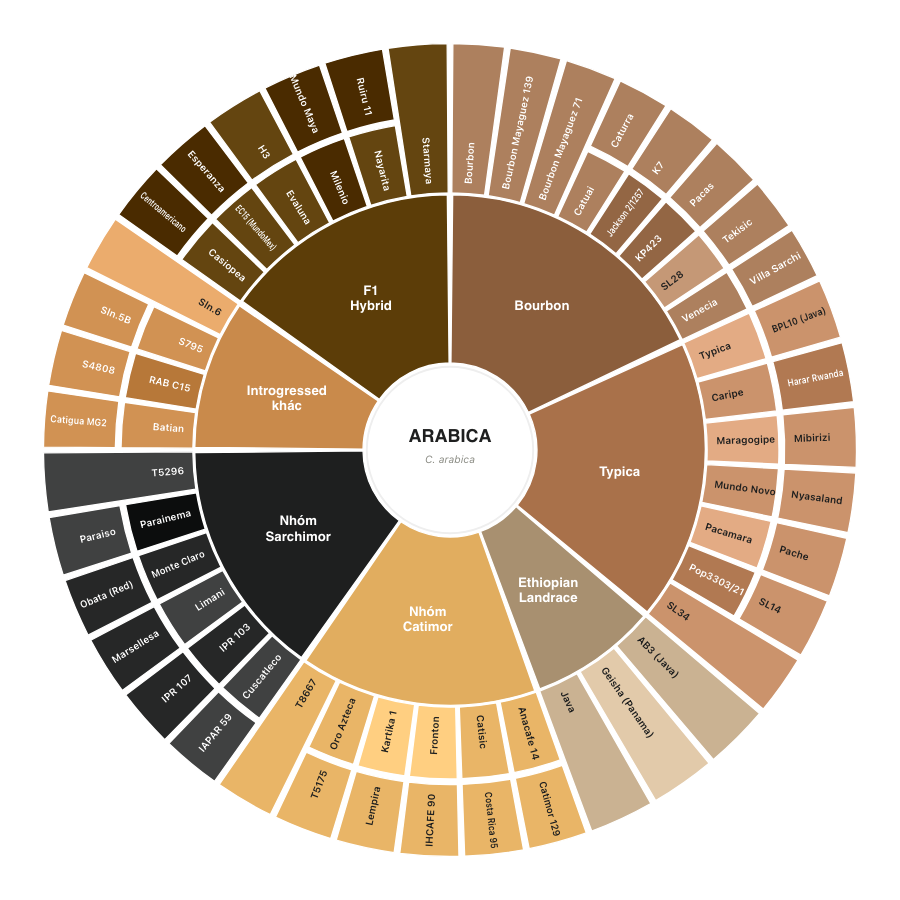
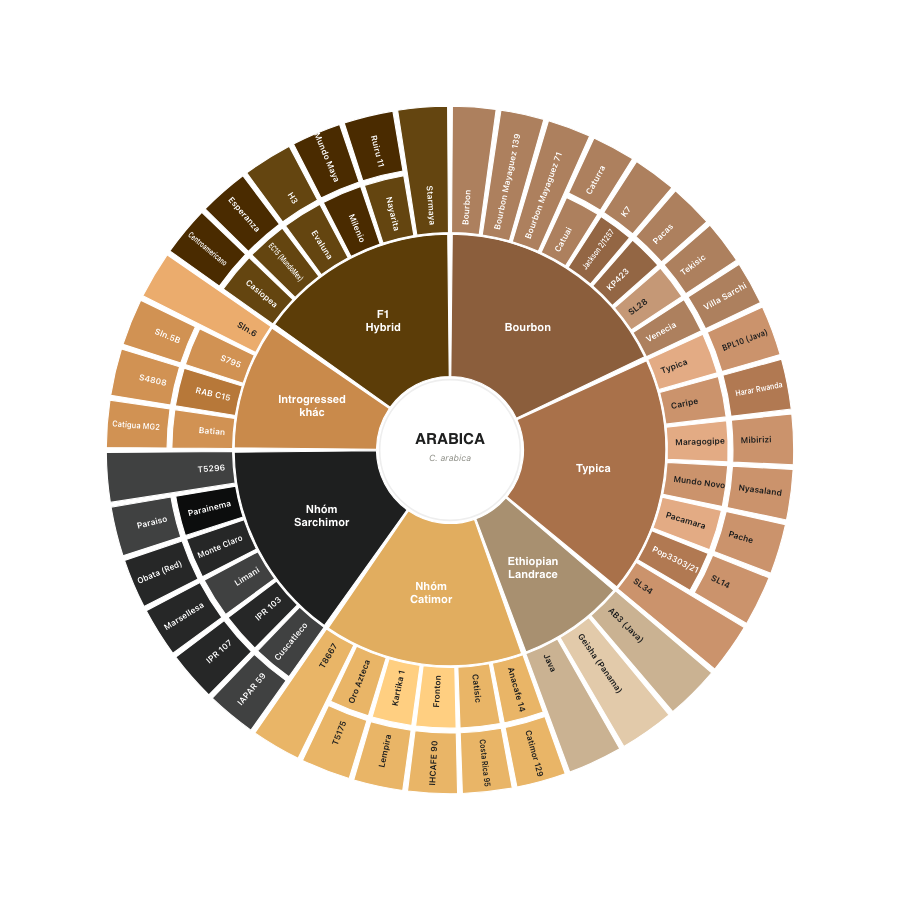
Knowledge cards: lift only the inner frame, and pick cells one by one on the variety wheel
Hovering used to raise the whole card. Now the border, the artwork and the
effect layer move together by the same 6px while the card itself stays put, so
what rises is the square frame inside it. Every keyframe that touches transform
carries that translateY, because animations beat ordinary declarations and the
artwork would otherwise drop back down mid-hover.

Each icon keeps its own effect. The variety wheel gets a new one: the outline
of a cell lights up as if being selected, running from the ARABICA core out
through ring 1, 2 and 3. A PNG has no per-cell geometry, so the 76 arc paths
plus the core circle are lifted straight out of the SVG the tool builds and
stored in varietyWheelCells.ts, already sorted into pick order. Same coordinate
space and same fit rule as the image below, so the outlines land on their cells
at any card width. One keyframe for all 77, phase-shifted by index — the lit
window is 13% of the cycle, which keeps about nine cells lit at once and reads
as a run rather than a flicker.

Nothing animates on its own on touch devices; scrolling past a spinning wheel
was distracting. Artwork is clipped to the inner frame so no effect crosses the
border line.

Thumbnails: the variety wheel was a stale export where a label overflowed its
cell, and its ring nearly touched the frame — re-exported from the current tool
with margin. The two beans were oversized on a phone and had no VS between
them. Both renamed so caches cannot serve the old file.

diff --git a/app/varietyWheelCells.ts b/app/varietyWheelCells.ts
@@ -1,0 +1,89 @@
+/* Hình học từng ô của Coffee Variety Wheel, trích thẳng từ SVG mà
+   public/tools/coffee-variety-wheel.html dựng ra, nên khớp tuyệt đối với ảnh
+   coffee-variety-wheel-atlas.png (cùng hệ toạ độ 900x900, cùng viewBox mở rộng).
+   Thứ tự mảng chính là thứ tự "chọn": lõi ARABICA trước, rồi vòng 1 (nhóm di
+   truyền), vòng 2 và vòng 3 (các giống) — mỗi vòng chạy hết một lượt theo chiều
+   kim đồng hồ. Chỉ dùng để vẽ viền sáng, không vẽ nền.
+
+   Sinh lại khi bánh xe đổi dữ liệu: xem ghi chú trong CLAUDE.md. */
+export const VARIETY_WHEEL_VIEWBOX = "-113 -113 1126 1126";
+
+export const VARIETY_WHEEL_CELLS: string[] = [
+  "M 450 450 m -88 0 a 88 88 0 1 0 176 0 a 88 88 0 1 0 -176 0",
+  "M 452.82738171138635 180.01480427131173 A 270 270 0 0 1 693.4947821293807 333.33684782346484 L 532.9685924292705 410.2481111102176 A 92 92 0 0 0 450.9634041386946 358.0050444183729 Z",
+  "M 695.8845884176678 338.4618039473737 A 270 270 0 0 1 658.6380648442847 621.3772385646123 L 521.0914887617563 508.3952072146086 A 92 92 0 0 0 533.7828967941683 411.9943924561421 Z",
+  "M 655.0032529804179 625.7090386617797 A 270 270 0 0 1 544.9972450692694 702.7360746495228 L 482.36943165323254 536.1174772879856 A 92 92 0 0 0 519.852960274809 509.87122798845826 Z",
+  "M 539.6835056086 704.6701176458523 A 270 270 0 0 1 297.4589090752668 672.7806445351397 L 398.0230356849057 525.9104418416032 A 92 92 0 0 0 480.55882413330073 536.7764845311793 Z",
+  "M 292.82679805753196 669.5372054826976 A 270 270 0 0 1 180.01480427131173 452.82738171138647 L 358.0050444183729 450.96340413869467 A 92 92 0 0 0 396.4446867455294 524.8052700163266 Z",
+  "M 180.01480427131173 447.1726182886136 A 270 270 0 0 1 227.21935546486023 297.4589090752669 L 374.0895581583968 398.0230356849058 A 92 92 0 0 0 358.0050444183729 449.0365958613054 Z",
+  "M 230.4627945173025 292.82679805753185 A 270 270 0 0 1 447.17261828861353 180.01480427131173 L 449.03659586130533 358.0050444183729 A 92 92 0 0 0 375.1947299836734 396.4446867455294 Z",
+  "M 453.0019419281235 20.010478796680275 A 430 430 0 0 1 507.79998537593394 23.90240356164668 L 486.5618512145443 180.4684971366695 A 272 272 0 0 0 451.89890280104555 178.00662844813263 Z",
+  "M 513.7436027486459 24.750951666411368 A 430 430 0 0 1 567.4415298510133 36.34859233135262 L 524.2885956266875 188.34143514913467 A 272 272 0 0 0 490.3215347619341 181.0052531471253 Z",
+  "M 573.2055576729533 38.02865323120278 A 430 430 0 0 1 624.7253378359941 57.099177503917986 L 560.5239346311405 201.4673867001528 A 272 272 0 0 0 527.9346783419612 189.4041713462492 Z",
+  "M 595.8314705592741 134.02977641157452 A 348 348 0 0 1 634.9267056722929 155.20157135901627 L 594.5404136289185 219.5828373840587 A 272 272 0 0 0 563.9832183681682 203.0347677699663 Z",
+  "M 639.0247085828335 157.81228714202422 A 348 348 0 0 1 674.735231515051 184.29701598236346 L 625.6551234830283 242.32410444598523 A 272 272 0 0 0 597.7434503865825 221.62339684663962 Z",
+  "M 678.4231182052181 187.4607094749341 A 348 348 0 0 1 710.0320104772466 218.72666922630017 L 653.2434104879628 269.23463801595875 A 272 272 0 0 0 628.5376096316647 244.79687637121287 Z",
+  "M 713.2357435513097 222.37982664757266 A 348 348 0 0 1 740.1084303341604 257.7993271368448 L 676.7514168129069 299.7741867276488 A 272 272 0 0 0 655.7474777182651 272.08997944867747 Z",
+  "M 742.7636921833248 261.8686083100764 A 348 348 0 0 1 764.3606819164286 300.7305735757052 L 695.7071996588178 333.3296437143443 A 272 272 0 0 0 678.8267938904148 302.95477431132406 Z",
+  "M 766.4141659483798 305.13428429338046 A 348 348 0 0 1 784.327073272748 353.4111389606513 L 711.313114741918 374.5052580382102 A 272 272 0 0 0 697.3122216608026 336.7716245051709 Z",
+  "M 785.6430755066483 358.088488944864 A 348 348 0 0 1 795.531406555194 408.623109300127 L 720.0705246638298 417.6594417518234 A 272 272 0 0 0 712.3417141891044 378.1611177959857 Z",
+  "M 796.0754371488482 413.451514364702 A 348 348 0 0 1 797.6800381233078 464.9194869407512 L 721.7499148549991 461.66120818357564 A 272 272 0 0 0 720.4957439784101 421.43336754942226 Z",
+  "M 797.4378390999123 469.7724040415796 A 348 348 0 0 1 790.716656550094 520.8248540367385 L 716.3072717862804 505.3573571781405 A 272 272 0 0 0 721.5606098711958 465.45429281410816 Z",
+  "M 789.6945754718956 525.5750977172285 A 348 348 0 0 1 774.8237584342808 574.8740403631916 L 703.8852364773688 547.6026982149084 A 272 272 0 0 0 715.5084038171137 509.07019131921305 Z",
+  "M 773.0485820453972 579.3971160360936 A 348 348 0 0 1 750.4178655217434 625.6505225593131 L 684.8093661549258 587.290063609578 A 272 272 0 0 0 702.4977422883564 551.137975752349 Z",
+  "M 818.1394558034984 672.2011275414777 A 430 430 0 0 1 781.3206943935894 724.0923155919365 L 659.5796020350147 623.3793252116436 A 272 272 0 0 0 682.8696092524456 590.5551318401906 Z",
+  "M 777.4614722407968 728.6915574571462 A 430 430 0 0 1 728.6915574571462 777.4614722407968 L 626.2886130891716 657.1384196499923 A 272 272 0 0 0 657.1384196499923 626.2886130891716 Z",
+  "M 724.0923155919365 781.3206943935894 A 430 430 0 0 1 667.5945185721005 820.8808777591207 L 587.6411838409566 684.603718024374 A 272 272 0 0 0 623.3793252116436 659.5796020350147 Z",
+  "M 662.3950026312193 823.8828196872441 A 430 430 0 0 1 599.8859803483806 853.0312554815133 L 544.8115968715338 704.9407011417945 A 272 272 0 0 0 584.3521877109108 686.5026208254196 Z",
+  "M 566.7371462730887 777.8359935699793 A 348 348 0 0 1 517.7921451827547 791.3330119568284 L 502.98696405088873 716.7890208398198 A 272 272 0 0 0 541.2428269720693 706.2396271581447 Z",
+  "M 513.0197840075967 792.2462663399498 A 348 348 0 0 1 462.54968626219875 797.7736410004651 L 459.80895018194843 721.8230757245015 A 272 272 0 0 0 499.25684267260436 717.502828863409 Z",
+  "M 457.69278467624747 797.9149624030632 A 348 348 0 0 1 406.9866860943086 795.3315143841501 L 416.38039832658603 719.914287104853 A 272 272 0 0 0 456.0127512412049 721.9335338322793 Z",
+  "M 402.169297979073 794.6972932069315 A 348 348 0 0 1 352.52232225909154 784.0690083534232 L 373.81055073124395 711.111408827963 A 272 272 0 0 0 412.6150834778962 719.41857400082 Z",
+  "M 347.8674922519501 782.6754437302136 A 348 348 0 0 1 300.5477112158949 764.2737872893513 L 333.1867168124236 695.6392820192631 A 272 272 0 0 0 370.17229279462765 710.0221859040751 Z",
+  "M 259.9280538237829 835.7105848648507 A 430 430 0 0 1 205.82718962716672 803.9486384698102 L 295.54650134555663 673.8930922413683 A 272 272 0 0 0 329.76844334899755 693.9843699610219 Z",
+  "M 248.41015202474773 733.6644729135369 A 348 348 0 0 1 209.28034251876244 701.3126469203563 L 261.85130219857297 646.4282757538417 A 272 272 0 0 0 292.43552112279133 671.7147604381668 Z",
+  "M 205.7949344080454 697.927178702193 A 348 348 0 0 1 172.3187153482387 659.7548668187403 L 232.96175452506014 613.946332685912 A 272 272 0 0 0 259.1270751695067 643.7821626637831 Z",
+  "M 169.41714732902108 655.8573845821804 A 348 348 0 0 1 142.44956072913476 612.8395753626796 L 209.61574861587545 577.2769094788761 A 272 272 0 0 0 230.6938622801544 610.9000247308996 Z",
+  "M 140.20594399532797 608.5296277172633 A 348 348 0 0 1 120.43578985129108 561.7650723126758 L 192.40958287227346 537.3566082443903 A 272 272 0 0 0 207.8621171457736 573.9082147675163 Z",
+  "M 118.90743035392597 557.1527429661024 A 348 348 0 0 1 106.83967347018967 507.8358910708042 L 181.78273328704478 495.2050642852263 A 272 272 0 0 0 191.2150030352525 533.7515692148847 Z",
+  "M 25.02359636599249 515.5366794574237 A 430 430 0 0 1 20.010478796680275 453.00194192812336 L 178.00662844813263 451.89890280104544 A 272 272 0 0 0 181.1777167710464 491.45576002888197 Z",
+  "M 102.0084805145226 447.5705214163094 A 348 348 0 0 1 105.68899566253549 399.46355481312014 L 180.88335293163692 410.5002497389905 A 272 272 0 0 0 178.00662844813263 448.1010971989545 Z",
+  "M 106.42815668018926 394.66114856786953 A 348 348 0 0 1 117.38403085018109 347.67396681915824 L 190.02429997485422 370.0210315368133 A 272 272 0 0 0 181.46108797991803 406.74664485764515 Z",
+  "M 118.84514744995545 343.0398970056673 A 348 348 0 0 1 136.82136098823838 298.2662197572977 L 205.21669594483 331.40348210915215 A 272 272 0 0 0 191.16632214479273 366.3989999584526 Z",
+  "M 65.68184425155368 257.1281379720905 A 430 430 0 0 1 96.05136153019004 205.82718962716643 L 226.10690775863182 295.5465013455564 A 272 272 0 0 0 206.89642241028514 327.99733378699676 Z",
+  "M 166.33552708646306 248.41015202474787 A 348 348 0 0 1 198.687353079644 209.2803425187621 L 253.5717242461585 261.8513021985727 A 272 272 0 0 0 228.2852395618332 292.43552112279144 Z",
+  "M 202.07282129780697 205.7949344080454 A 348 348 0 0 1 240.2451331812601 172.31871534823836 L 286.05366731408833 232.96175452505986 A 272 272 0 0 0 256.2178373362169 259.1270751695067 Z",
+  "M 244.14261541781946 169.41714732902113 A 348 348 0 0 1 287.16042463732043 142.4495607291347 L 322.72309052112405 209.61574861587542 A 272 272 0 0 0 289.09997526910024 230.69386228015446 Z",
+  "M 291.4703722827363 140.20594399532814 A 348 348 0 0 1 338.23492768732484 120.4357898512909 L 362.6433917556102 192.40958287227335 A 272 272 0 0 0 326.0917852324835 207.8621171457737 Z",
+  "M 342.8472570338974 118.90743035392603 A 348 348 0 0 1 392.16410892919606 106.83967347018955 L 404.79493571477394 181.78273328704472 A 272 272 0 0 0 366.2484307851152 191.2150030352525 Z",
+  "M 384.4633205425763 25.02359636599249 A 430 430 0 0 1 446.99805807187664 20.010478796680275 L 448.1010971989545 178.00662844813263 A 272 272 0 0 0 408.54423997111803 181.1777167710464 Z",
+  "M 630.1940584496776 59.57702257752027 A 430 430 0 0 1 678.5013891927756 85.737573805681 L 638.1150971494013 150.11883983072346 A 354 354 0 0 0 598.3458062585719 128.58201393591202 Z",
+  "M 683.5650134787884 88.96345825020234 A 430 430 0 0 1 727.6900849180229 121.68884158740309 L 678.6099768860001 179.71593005102488 A 354 354 0 0 0 642.2837552825374 152.7745679548177 Z",
+  "M 732.2469564029993 125.5980030868439 A 430 430 0 0 1 771.303920992 164.23122921640538 L 714.5153210027163 214.739198006064 A 354 354 0 0 0 682.361447829446 182.93416998312262 Z",
+  "M 775.2625566869632 168.74518809901218 A 430 430 0 0 1 808.4673133439337 212.51066284150357 L 745.1102998226804 254.4855224323076 A 354 354 0 0 0 717.7742908539185 218.455340900117 Z",
+  "M 811.7482403414645 217.5387976245197 A 430 430 0 0 1 838.4341759312193 265.55789263664724 L 769.7806936736085 298.15696277528633 A 354 354 0 0 0 747.8113420485545 258.62496362576735 Z",
+  "M 840.9715268902395 270.99925932802756 A 430 430 0 0 1 863.1052916875908 330.6516946927587 L 790.0913331567608 351.7458137703177 A 354 354 0 0 0 771.8695826026624 302.636599539818 Z",
+  "M 864.731386401893 336.4311788686539 A 430 430 0 0 1 876.9497264906133 398.8733821811914 L 801.4888445992491 407.9097146328878 A 354 354 0 0 0 791.4300250843492 356.5038077197755 Z",
+  "M 877.621948201163 404.8395148759249 A 430 430 0 0 1 879.6046448075356 468.434998231388 L 803.6745215392269 465.17671947421246 A 354 354 0 0 0 802.0422550307248 412.82136806064517 Z",
+  "M 879.3053758993169 474.43141878700925 A 430 430 0 0 1 871.0004664268403 537.5134690683839 L 796.5910816630267 522.0459722097858 A 354 354 0 0 0 803.4281466706004 470.1133075595379 Z",
+  "M 869.7375501520548 543.383023041403 A 430 430 0 0 1 851.3626900193699 604.298383207392 L 780.424168062458 577.0270410591088 A 354 354 0 0 0 795.5513784972732 526.8781166433876 Z",
+  "M 849.1692249411517 609.8872410790812 A 430 430 0 0 1 821.2059832596253 667.0394387945536 L 755.5974838928078 628.6789798448185 A 354 354 0 0 0 778.6183851841109 581.6281007953365 Z",
+  "M 594.2441749926096 855.0847046985376 A 430 430 0 0 1 533.7661564039785 871.762055004127 L 518.9609752721126 797.2180638871184 A 354 354 0 0 0 568.7498556915903 783.4883382867031 Z",
+  "M 527.8692733427201 872.890501512007 A 430 430 0 0 1 465.5067962435214 879.7203035350574 L 462.7660601632711 803.7697382590939 A 354 354 0 0 0 514.1063320077277 798.1470640354662 Z",
+  "M 459.50545232984604 879.8949248083827 A 430 430 0 0 1 396.85136500158825 876.7027332907602 L 406.2450772338657 801.285506011463 A 354 354 0 0 0 457.8254188948035 803.9134962375988 Z",
+  "M 390.898845204027 875.9190691924728 A 430 430 0 0 1 329.55344417071655 862.7864183677357 L 350.84167264286896 789.8288188422754 A 354 354 0 0 0 401.34463070285017 800.6403499863613 Z",
+  "M 323.80178640327165 861.0644850689421 A 430 430 0 0 1 265.33194201964017 838.3268061333938 L 297.9709476161689 769.6923008633056 A 354 354 0 0 0 346.10658694594923 788.4112272428035 Z",
+  "M 200.90909589264805 800.5049521632783 A 430 430 0 0 1 152.55904391686164 760.5299947579115 L 205.13000359667214 705.6456235913969 A 354 354 0 0 0 244.93446499069165 738.5552396879082 Z",
+  "M 148.25236148120553 756.3468012699511 A 430 430 0 0 1 106.88806781535243 709.1798641725815 L 167.53110699217387 663.3713300397532 A 354 354 0 0 0 201.5845022426669 702.2017852315412 Z",
+  "M 103.30279698700883 704.364009684878 A 430 430 0 0 1 69.98077906186188 651.2098201320467 L 137.1469669486026 615.6471542482432 A 354 354 0 0 0 164.57951193814216 659.4066498335974 Z",
+  "M 67.20849401721563 645.8843101104117 A 430 430 0 0 1 42.77985527602061 588.1005203863522 L 114.753648297003 563.6920563180666 A 354 354 0 0 0 134.8646671676612 611.2628971606645 Z",
+  "M 40.89136509249471 582.4013778029428 A 430 430 0 0 1 25.98005629937228 521.4638883920857 L 100.92311611622739 508.8330616065077 A 354 354 0 0 0 113.19893777382123 559.000204051725 Z",
+  "M 20.010478796680275 446.9980580718766 A 430 430 0 0 1 24.558241766926074 387.55554186678637 L 99.7525990360275 398.5922367926567 A 354 354 0 0 0 96.00862673029025 447.5286338545217 Z",
+  "M 25.471572909429256 381.62153414995373 A 430 430 0 0 1 39.009003636718035 323.5626601501093 L 111.64927276139116 345.90972486776445 A 354 354 0 0 0 100.50450420915803 393.70703043972935 Z",
+  "M 40.8144063318415 317.83665434608315 A 430 430 0 0 1 63.026394324547425 262.5128577460862 L 131.42172928113905 295.6501200979407 A 354 354 0 0 0 113.13558102667884 341.19575729886844 Z",
+  "M 99.4950478367216 200.90909589264825 A 430 430 0 0 1 139.47000524208886 152.55904391686124 L 194.35437640860337 205.1300035966718 A 354 354 0 0 0 161.44476031209172 244.93446499069182 Z",
+  "M 143.65319873004887 148.25236148120553 A 430 430 0 0 1 190.8201358274191 106.88806781535197 L 236.62866996024735 167.53110699217348 A 354 354 0 0 0 197.79821476845882 201.5845022426669 Z",
+  "M 195.63599031512175 103.30279698700889 A 430 430 0 0 1 248.7901798679534 69.98077906186188 L 284.352845751757 137.14696694860254 A 354 354 0 0 0 240.59335016640256 164.57951193814222 Z",
+  "M 254.11568988958797 67.2084940172158 A 430 430 0 0 1 311.8994796136485 42.77985527602033 L 336.3079436819339 114.75364829700277 A 354 354 0 0 0 288.7371028393352 134.86466716766137 Z",
+  "M 317.5986221970571 40.891365092494766 A 430 430 0 0 1 378.5361116079147 25.980056299372166 L 391.1669383934925 100.92311611622733 A 354 354 0 0 0 340.99979594827494 113.19893777382129 Z",
+];

diff --git a/app/public-site.css b/app/public-site.css
@@ -112,11 +112,56 @@
 .tool-nav-dot{width:6px;height:6px;padding:0;border:0;border-radius:50%!important;background:var(--line);cursor:pointer;transition:background-color .3s var(--ease)}
 .tool-nav-dot:hover{background:var(--quiet)}
 .tool-nav-dot.is-active{background:var(--copper)}
-.tool-card{flex:0 0 calc((100% - 36px)/3);scroll-snap-align:start;min-height:540px;display:grid;grid-template-rows:300px 1fr;background:var(--paper-2);border:1px solid rgba(30,31,31,.08);border-radius:var(--radius-lg);overflow:hidden;box-shadow:0 1px 0 rgba(30,31,31,.04);transition:background .3s var(--ease),transform .35s var(--ease),box-shadow .35s var(--ease)}.tool-card:hover{background:#ece9e1;transform:translateY(-6px);box-shadow:0 24px 44px rgba(21,20,15,.16)}.tool-visual{position:relative;isolation:isolate;overflow:hidden;background:#f7f5ef}.tool-visual:after{content:"";position:absolute;z-index:3;inset:16px;border:1px solid rgba(30,31,31,.1);pointer-events:none}.tool-thumbnail{z-index:1;object-fit:contain;object-position:center;transition:transform .6s var(--ease),filter .6s var(--ease);will-change:transform}.tool-card:hover .tool-thumbnail{transform:scale(1.025)}
-.tool-card-bean:hover .tool-thumbnail,.tool-card-bean:focus-visible .tool-thumbnail{animation:toolBeanTilt 3.6s ease-in-out infinite}
-@keyframes toolBeanTilt{0%,100%{transform:scale(1.025) rotate(0deg)}35%{transform:scale(1.045) rotate(-1.6deg)}70%{transform:scale(1.045) rotate(1.6deg)}}
-.tool-card-wheel:hover .tool-thumbnail,.tool-card-wheel:focus-visible .tool-thumbnail{animation:toolWheelSpin 8s linear infinite}.tool-card-wheel:active .tool-thumbnail{animation:toolWheelSpin 1.1s linear infinite}.tool-card-map .tool-visual:before{content:"";position:absolute;z-index:2;inset:0;background:url("/images/tools/vietnam-coffee-map-centered.png") center/contain no-repeat;opacity:0;clip-path:inset(0 0 88% 0);filter:brightness(1.18) saturate(1.4) drop-shadow(0 0 4px rgba(255,194,102,.95)) drop-shadow(0 0 12px rgba(191,129,60,.68));pointer-events:none;will-change:clip-path,opacity}.tool-card-map:hover .tool-thumbnail,.tool-card-map:focus-visible .tool-thumbnail{transform:scale(1.018)}.tool-card-map:hover .tool-visual:before,.tool-card-map:focus-visible .tool-visual:before{animation:toolMapSweep 3.4s ease-in-out infinite}.tool-card-map:active .tool-visual:before{animation-duration:1.7s}
-@keyframes toolWheelSpin{from{transform:rotate(0deg) scale(1.02)}to{transform:rotate(360deg) scale(1.02)}}@keyframes toolMapSweep{0%{opacity:0;clip-path:inset(0 0 88% 0)}8%{opacity:1}50%{opacity:1;clip-path:inset(44% 0 44% 0)}92%{opacity:1}100%{opacity:0;clip-path:inset(88% 0 0 0)}}
+.tool-card{--tool-frame:16px;flex:0 0 calc((100% - 36px)/3);scroll-snap-align:start;min-height:540px;display:grid;grid-template-rows:300px 1fr;background:var(--paper-2);border:1px solid rgba(30,31,31,.08);border-radius:var(--radius-lg);overflow:hidden;box-shadow:0 1px 0 rgba(30,31,31,.04);transition:background .3s var(--ease),box-shadow .35s var(--ease)}.tool-card:hover{background:#ece9e1;box-shadow:0 24px 44px rgba(21,20,15,.16)}.tool-visual{position:relative;isolation:isolate;overflow:hidden;background:#f7f5ef}.tool-visual:after{content:"";position:absolute;z-index:3;inset:var(--tool-frame);border:1px solid rgba(30,31,31,.1);pointer-events:none}
+/* Artwork luôn bị cắt đúng bằng khung trong, nên dù hiệu ứng riêng của icon có
+   xoay hay nghiêng thì cũng không có gì tràn qua đường viền. */
+.tool-thumbnail{z-index:1;object-fit:contain;object-position:center;clip-path:inset(var(--tool-frame))}
+/* Rê chuột: chỉ riêng khung vuông bên trong nhấc lên — viền, artwork và lớp
+   hiệu ứng dịch cùng một lượng nên chúng đi lên như một khối. Cả thẻ đứng yên.
+   Nhấc 6px trong khi khung cách mép 16px nên không có gì bị cắt ở trên. */
+.tool-visual:after,.tool-thumbnail,.tool-visual:before,.tool-cells{transition:transform .35s var(--ease),box-shadow .35s var(--ease)}
+.tool-card:hover .tool-visual:after,.tool-card:focus-visible .tool-visual:after,
+.tool-card:hover .tool-thumbnail,.tool-card:focus-visible .tool-thumbnail,
+.tool-card:hover .tool-visual:before,.tool-card:focus-visible .tool-visual:before,
+.tool-card:hover .tool-cells,.tool-card:focus-visible .tool-cells{transform:translateY(-6px)}
+.tool-card:hover .tool-visual:after,.tool-card:focus-visible .tool-visual:after{box-shadow:0 14px 26px -16px rgba(21,20,15,.55)}
+
+/* ---- Hiệu ứng riêng của từng icon ----
+   Mọi keyframe chạm tới transform đều phải mang sẵn translateY(-6px): animation
+   thắng khai báo thường, nếu bỏ ra thì artwork sẽ tụt xuống trong khi viền vẫn
+   đang nhấc. Delay .35s để hiệu ứng chỉ bắt đầu sau khi khung nhấc xong. */
+
+/* 01 · Flavor wheel — bánh xe quay */
+.tool-card-wheel:hover .tool-thumbnail,.tool-card-wheel:focus-visible .tool-thumbnail{animation:toolWheelSpin 8s linear .35s infinite}
+.tool-card-wheel:active .tool-thumbnail{animation-duration:1.1s}
+@keyframes toolWheelSpin{from{transform:translateY(-6px) rotate(0deg)}to{transform:translateY(-6px) rotate(360deg)}}
+
+/* 04 · Hai hạt — nghiêng qua lại */
+.tool-card-bean:hover .tool-thumbnail,.tool-card-bean:focus-visible .tool-thumbnail{animation:toolBeanTilt 3.6s ease-in-out .35s infinite}
+@keyframes toolBeanTilt{0%,100%{transform:translateY(-6px) rotate(0deg)}35%{transform:translateY(-6px) rotate(-1.7deg)}70%{transform:translateY(-6px) rotate(1.7deg)}}
+
+/* 02 và 03 dùng chung một cơ chế: lớp before là bản sao artwork đã tăng sáng,
+   bị mask che gần hết, chỉ hiện đúng dải mà mask đang quét qua. Đặt inset:0 để
+   bản sao trùng khít ảnh gốc (cả hai cùng contain trên toàn ô visual), rồi clip
+   lại bằng khung trong — clip-path lo phần khung nên mask rảnh để làm hiệu ứng. */
+.tool-card-map .tool-visual:before{content:"";position:absolute;z-index:2;inset:0;clip-path:inset(var(--tool-frame));pointer-events:none;background-repeat:no-repeat;background-position:center;background-size:contain;-webkit-mask-repeat:no-repeat;mask-repeat:no-repeat}
+
+/* 02 · Vietnam map — dải sáng quét dọc từ Bắc xuống Nam. Mask cao gấp đôi ô,
+   kéo mask-position từ 100% (dải ở mép trên) về 0% (dải ở mép dưới). */
+.tool-card-map .tool-visual:before{opacity:0;background-image:url("/images/tools/vietnam-coffee-map-centered.png");filter:brightness(1.18) saturate(1.4) drop-shadow(0 0 4px rgba(255,194,102,.95)) drop-shadow(0 0 12px rgba(191,129,60,.68));-webkit-mask-image:linear-gradient(to bottom,transparent 44%,#000 47.5%,#000 52.5%,transparent 56%);mask-image:linear-gradient(to bottom,transparent 44%,#000 47.5%,#000 52.5%,transparent 56%);-webkit-mask-size:100% 200%;mask-size:100% 200%;-webkit-mask-position:0 100%;mask-position:0 100%}
+.tool-card-map:hover .tool-visual:before,.tool-card-map:focus-visible .tool-visual:before{animation:toolMapSweep 3.4s ease-in-out infinite}
+.tool-card-map:active .tool-visual:before{animation-duration:1.7s}
+@keyframes toolMapSweep{0%{opacity:0;-webkit-mask-position:0 100%;mask-position:0 100%}8%{opacity:1}92%{opacity:1}100%{opacity:0;-webkit-mask-position:0 0;mask-position:0 0}}
+
+/* 03 · Variety wheel — sáng viền từng ô như đang chọn: lõi ARABICA trước, rồi
+   chạy hết vòng 1, vòng 2, vòng 3. Hình học lấy từ app/varietyWheelCells.ts nên
+   viền trùng khít với ảnh bên dưới. Mỗi ô lệch pha theo chỉ số --i, cả 77 ô dùng
+   chung một keyframe: cửa sổ sáng chỉ chiếm ~13% chu kỳ nên tại một thời điểm
+   chỉ chừng mười ô đang sáng, đọc ra thành một vệt chạy vòng. */
+.tool-cells{position:absolute;z-index:2;inset:0;width:100%;height:100%;clip-path:inset(var(--tool-frame));pointer-events:none;fill:none;stroke:#e8b877;stroke-width:5;stroke-linejoin:round}
+.tool-cells path{opacity:0}
+.tool-card-cells:hover .tool-cells path,.tool-card-cells:focus-visible .tool-cells path{animation:toolCellPick 6.2s linear infinite;animation-delay:calc(var(--i) * 80ms)}
+@keyframes toolCellPick{0%{opacity:0}3%{opacity:.95}13%{opacity:0}100%{opacity:0}}
 .tool-card-copy{padding:24px 26px 26px;display:grid;grid-template-columns:1fr auto;grid-template-rows:auto 1fr auto;gap:0 20px}.tool-card-meta{grid-column:1/-1;display:flex;align-items:center;justify-content:space-between;color:#817b71;font-family:var(--font-heading),Arial,sans-serif;font-weight:600;font-size:8px;letter-spacing:.06em;text-transform:uppercase}.tool-card-meta>span{color:var(--copper);font-size:14px}.tool-card h3{grid-column:1/-1;align-self:end;display:flex;align-items:flex-end;min-height:1.92em;margin:32px 0 0;font-weight:600;font-size:clamp(24px,2.25vw,var(--text-h3));line-height:.96;letter-spacing:-.02em;text-transform:uppercase}.tool-card-copy>p{margin:18px 0 0;color:#625e56;font-size:11px;line-height:1.72}
 
 .courses-section{background:var(--paper)}
@@ -216,5 +261,12 @@
 @media(max-width:1100px){.public-nav{grid-template-columns:1fr auto}.public-nav-meta{display:none}.public-nav nav{gap:18px}.public-intro{grid-template-columns:minmax(290px,.8fr) minmax(400px,1.2fr);gap:28px}.intro-statement{font-size:clamp(42px,5.2vw,62px)}.coffee-clock-figure{width:min(52vw,calc(100svh - 136px),610px)}.tool-card{grid-template-rows:270px 1fr}.course-stack-body{gap:28px;padding:32px 36px 36px}.course-tab{padding:16px 36px}.section-heading{grid-template-columns:1.2fr .8fr;gap:6vw}.instructor-card-text{padding:44px}.instructor-card-photo{min-height:420px}}
 @media(max-width:760px){.public-nav{min-height:64px}.public-nav-bar{height:64px;padding:0 6vw}.public-nav-actions{margin-left:auto}.public-nav nav{display:none}.public-nav-meta{display:none}.brand-badge{width:38px;height:38px}.theme-toggle{display:none}.footer-top nav{display:none}.mobile-tabbar{display:flex}.public-site{padding-bottom:0}.public-intro{min-height:calc(100svh - 91px);padding:37px 6vw 48px;grid-template-columns:1fr;grid-template-rows:auto 1fr;gap:26px}.coffee-clock-hero:before{right:-38vw;top:20%;width:130vw}.coffee-clock-copy{max-width:none;padding:0;text-align:center}.coffee-clock-kicker{margin-bottom:16px}.intro-statement{max-width:none;text-align:center;font-size:clamp(39px,11.4vw,58px);line-height:1.02}.coffee-clock-subline{max-width:none;text-align:center;margin-inline:auto}.coffee-clock-figure{width:min(88vw,calc(100svh - 335px),520px);min-width:280px;justify-self:center}.knowledge-section,.courses-section,.registration-section,.instructor-section{padding:64px 6vw}.section-heading{display:block;margin-bottom:38px}.section-heading h2,.registration-copy h2,.instructor-card-text h2{font-size:32px}.section-heading>p{max-width:540px;margin-top:25px}.tool-grid{display:flex;overflow-x:auto;scroll-snap-type:x mandatory;gap:14px;margin:0 -6vw;padding:0 6vw 6px;scrollbar-width:none}.tool-grid::-webkit-scrollbar{display:none}.tool-card{flex:0 0 82%;scroll-snap-align:start;min-height:0;grid-template-rows:260px 1fr}.course-stack-card{margin-bottom:0}.course-tab{padding:16px 24px;min-height:60px}.course-stack-body{grid-template-columns:1fr;height:320px;padding:24px}.course-stack-visual{display:none}.course-stack-copy h3{font-size:28px}.registration-panel{grid-template-columns:1fr;gap:28px;padding:28px;border-radius:var(--radius-panel-sm)}.contact-channels{grid-template-columns:repeat(4,1fr)}.public-footer{padding:60px 6vw calc(32px + 76px + env(safe-area-inset-bottom))}.footer-top{grid-template-columns:.65fr 1.35fr;column-gap:32px}.footer-statement{justify-self:end;text-align:right}.footer-wordmark{margin-top:42px;padding:30px 0 8px}.footer-wordmark-text{gap:.14em;font-size:clamp(48px,13.8vw,104px);line-height:.9;letter-spacing:.045em}.instructor-grid{grid-template-columns:1fr;gap:20px}.instructor-card-text{padding:32px}.instructor-card-text h2{max-width:100%}.instructor-card-photo{min-height:320px}.alumni-frame{width:240px}.alumni-kicker{font-size:11px}}
 @media(max-width:500px){.public-nav nav{justify-content:space-between;gap:10px}.section-heading h2,.registration-copy h2,.instructor-copy h2{font-size:28px}.tool-card-copy{min-height:0;grid-template-rows:auto auto auto}.tool-card h3{align-self:start;margin-top:16px}.footer-top{grid-template-columns:1fr;row-gap:34px}.footer-statement{justify-self:start;text-align:left}.footer-wordmark{margin-top:40px}}
-@media(hover:none) and (pointer:coarse){.tool-card-wheel .tool-thumbnail{animation:toolWheelSpin 14s linear infinite}.tool-card-map .tool-visual:before{animation:toolMapSweep 4.4s ease-in-out infinite}}
+/* Trên thiết bị chạm, thẻ công cụ đứng yên hoàn toàn: trước đây bánh xe quay và
+   bản đồ quét liên tục, cuộn dọc qua khu vực này thấy rối. Sóng chỉ lan khi
+   người dùng chạm vào thẻ. */
+@media(hover:none) and (pointer:coarse){.tool-card:hover .tool-thumbnail,.tool-card:hover .tool-visual:before,.tool-card:hover .tool-cells path{animation:none}
+.tool-card-wheel:active .tool-thumbnail{animation:toolWheelSpin 1.2s linear 2}
+.tool-card-bean:active .tool-thumbnail{animation:toolBeanTilt 1.6s ease-in-out 2}
+.tool-card-map:active .tool-visual:before{animation:toolMapSweep 1.7s ease-in-out 2}
+.tool-card-cells:active .tool-cells path{animation:toolCellPick 6.2s linear 2;animation-delay:calc(var(--i) * 80ms)}}
 @media(prefers-reduced-motion:reduce){.public-site *{scroll-behavior:auto!important;transition:none!important;animation:none!important}.public-nav{backdrop-filter:none}}

diff --git a/app/PublicSite.tsx b/app/PublicSite.tsx
@@ -3,6 +3,7 @@
 import { CSSProperties, FormEvent, MouseEvent, PointerEvent, useEffect, useRef, useState } from "react";
 import Image from "next/image";
 import { usePathname } from "next/navigation";
+import { VARIETY_WHEEL_CELLS, VARIETY_WHEEL_VIEWBOX } from "./varietyWheelCells";
 import "./public-site.css";
 
 const sectionIds = ["kien-thuc", "khoa-hoc", "tu-van"];
@@ -213,12 +214,36 @@ const stages = [
   },
 ];
 
-const knowledgeTools = [
+/* Lớp viền của thẻ 03: chồng đúng hình học từng ô lên ảnh bánh xe. Mảng đã
+   được sắp theo thứ tự chọn (lõi → vòng 1 → 2 → 3), nên chỉ cần lệch pha
+   animation theo chỉ số là ra hiệu ứng chọn lần lượt hết vòng này tới vòng kia.
+   preserveAspectRatio mặc định (xMidYMid meet) khớp với object-fit:contain của
+   ảnh nền, nên viền nằm đúng ô dù thẻ rộng hẹp thế nào. */
+function VarietyWheelCells() {
+  return (
+    <svg className="tool-cells" viewBox={VARIETY_WHEEL_VIEWBOX} aria-hidden="true" focusable="false">
+      {VARIETY_WHEEL_CELLS.map((d, i) => (
+        <path key={i} d={d} style={{ "--i": i } as CSSProperties} />
+      ))}
+    </svg>
+  );
+}
+
+const knowledgeTools: {
+  number: string;
+  title: string;
+  description: string;
+  href: string;
+  image: string;
+  meta: string;
+  /* Mỗi icon có hiệu ứng riêng khi rê chuột — xem .tool-card-* trong CSS. */
+  effect: "wheel" | "map" | "cells" | "bean";
+}[] = [
   {
     number: "01",
     title: "COFFEE FLAVOR WHEEL",
     description:
-      "Khám phá bản đồ hương vị chuẩn SCA ngay trên bản gốc — giải nghĩa song ngữ từ nhóm hương đến mô tả cụ thể.",
+      "Bản đồ hương vị chuẩn SCA, chú giải song ngữ từ nhóm hương đến từng mô tả.",
     href: "/tools/flavor-wheel.html",
     image: "/images/tools/flavor-wheel-transparent.png",
     meta: "Công cụ tương tác · Song ngữ",
@@ -228,7 +253,7 @@ const knowledgeTools = [
     number: "02",
     title: "VIETNAM COFFEE MAP",
     description:
-      "Khám phá vùng trồng, độ cao, giống và sơ chế — hiểu vì sao mỗi vùng cho một hồ sơ hương vị riêng.",
+      "Vùng trồng, độ cao, giống và cách sơ chế của từng vùng cà phê Việt Nam.",
     href: "/tools/vietnam-coffee-map.html",
     image: "/images/tools/vietnam-coffee-map-centered.png",
     meta: "Dữ liệu vùng trồng · Có nguồn",
@@ -238,19 +263,19 @@ const knowledgeTools = [
     number: "03",
     title: "COFFEE VARIETY WHEEL",
     description:
-      "Tra cứu nhóm di truyền, nguồn gốc và đặc tính của các giống Arabica và Robusta phổ biến.",
+      "Nhóm di truyền, nguồn gốc và đặc tính giống Arabica, Robusta theo dữ liệu WCR.",
     href: "/tools/coffee-variety-wheel.html",
-    image: "/images/tools/coffee-variety-wheel-transparent.png",
+    image: "/images/tools/coffee-variety-wheel-atlas.png",
     meta: "Atlas giống · Dữ liệu WCR",
-    effect: "wheel",
+    effect: "cells",
   },
   {
     number: "04",
     title: "ARABICA & ROBUSTA",
     description:
-      "So sánh hai loài trên cùng một trục — đặc tính nông học, hồ sơ hương vị và cấu tạo trái cà phê.",
+      "Hai loài trên cùng một trục: đặc tính nông học, hồ sơ hương vị, cấu tạo trái.",
     href: "/tools/arabica-robusta.html",
-    image: "/images/tools/arabica-robusta-transparent.png",
+    image: "/images/tools/arabica-robusta-vs.png",
     meta: "Giáo án Barista · So sánh",
     effect: "bean",
   },
@@ -705,7 +730,8 @@ export default function PublicSite({ onExperience }: PublicSiteProps) {
             <em>to understand.</em>
           </p>
           <p className="coffee-clock-subline">
-            Cảm ơn bạn đã dành thời gian để bắt đầu hành trình hiểu cà phê cùng Crema Lab.
+            Hiểu cà phê là một hành trình cần thời gian — từ nguyên lý đến
+            khả năng tự hiệu chỉnh chất lượng.
           </p>
         </div>
 
@@ -753,8 +779,8 @@ export default function PublicSite({ onExperience }: PublicSiteProps) {
             <h2 id="knowledge-heading">HỌC QUA KHÁM PHÁ.</h2>
           </div>
           <p>
-            Khám phá kiến thức cà phê qua những nội dung trực quan, dễ hiểu và
-            có thể ứng dụng ngay.
+            Bốn công cụ tra cứu mở, dữ liệu có nguồn. Dùng được ngay khi cần
+            đối chiếu.
           </p>
         </div>
 
@@ -781,6 +807,7 @@ export default function PublicSite({ onExperience }: PublicSiteProps) {
                   sizes="(max-width: 760px) 82vw, 33vw"
                   className="tool-thumbnail"
                 />
+                {tool.effect === "cells" ? <VarietyWheelCells /> : null}
               </div>
               <div className="tool-card-copy">
                 <div className="tool-card-meta">
@@ -849,8 +876,8 @@ export default function PublicSite({ onExperience }: PublicSiteProps) {
             <h2 id="courses-heading">HỌC ĐỂ TỰ ĐIỀU CHỈNH.</h2>
           </div>
           <p>
-            Từ nguyên lý đến thực hành, mỗi khóa học giúp bạn hiểu biến số, tự
-            tin đưa ra quyết định và thích ứng với tình huống thực tế.
+            Học nguyên lý và thông số, để tự hiệu chỉnh thay vì làm theo công
+            thức.
           </p>
         </div>
 
@@ -909,7 +936,7 @@ export default function PublicSite({ onExperience }: PublicSiteProps) {
       </section>
 
       <section className="alumni-strip" aria-label="Học viên đã tham gia khóa học">
-        <p className="alumni-kicker">Học viên đã đồng hành cùng Crema Lab</p>
+        <p className="alumni-kicker">Học viên đã học tại Crema Lab</p>
         <div
           className="alumni-track"
           aria-hidden="true"
@@ -935,8 +962,8 @@ export default function PublicSite({ onExperience }: PublicSiteProps) {
             <span className="registration-badge">Tư vấn</span>
             <h2 id="register-heading">CHỌN ĐIỂM BẮT ĐẦU.</h2>
             <p>
-              Hãy kể Crema Lab nghe điều bạn đang hướng đến — chúng ta sẽ cùng
-              tìm điểm bắt đầu phù hợp.
+              Cho biết mục tiêu và mức hiện tại của bạn. Crema Lab đề xuất lộ
+              trình tương ứng.
             </p>
           </div>
 
@@ -1019,7 +1046,7 @@ export default function PublicSite({ onExperience }: PublicSiteProps) {
                 </label>
                 <label>
                   Mục tiêu của bạn
-                  <textarea name="goal" rows={3} placeholder="Chia sẻ ngắn để chúng tôi tư vấn chính xác hơn" />
+                  <textarea name="goal" rows={3} placeholder="Mục tiêu hoặc câu hỏi của bạn" />
                 </label>
                 <button type="submit">Gửi yêu cầu tư vấn</button>
                 <p className={`form-success${submitted ? " is-visible" : ""}`} aria-live="polite">
